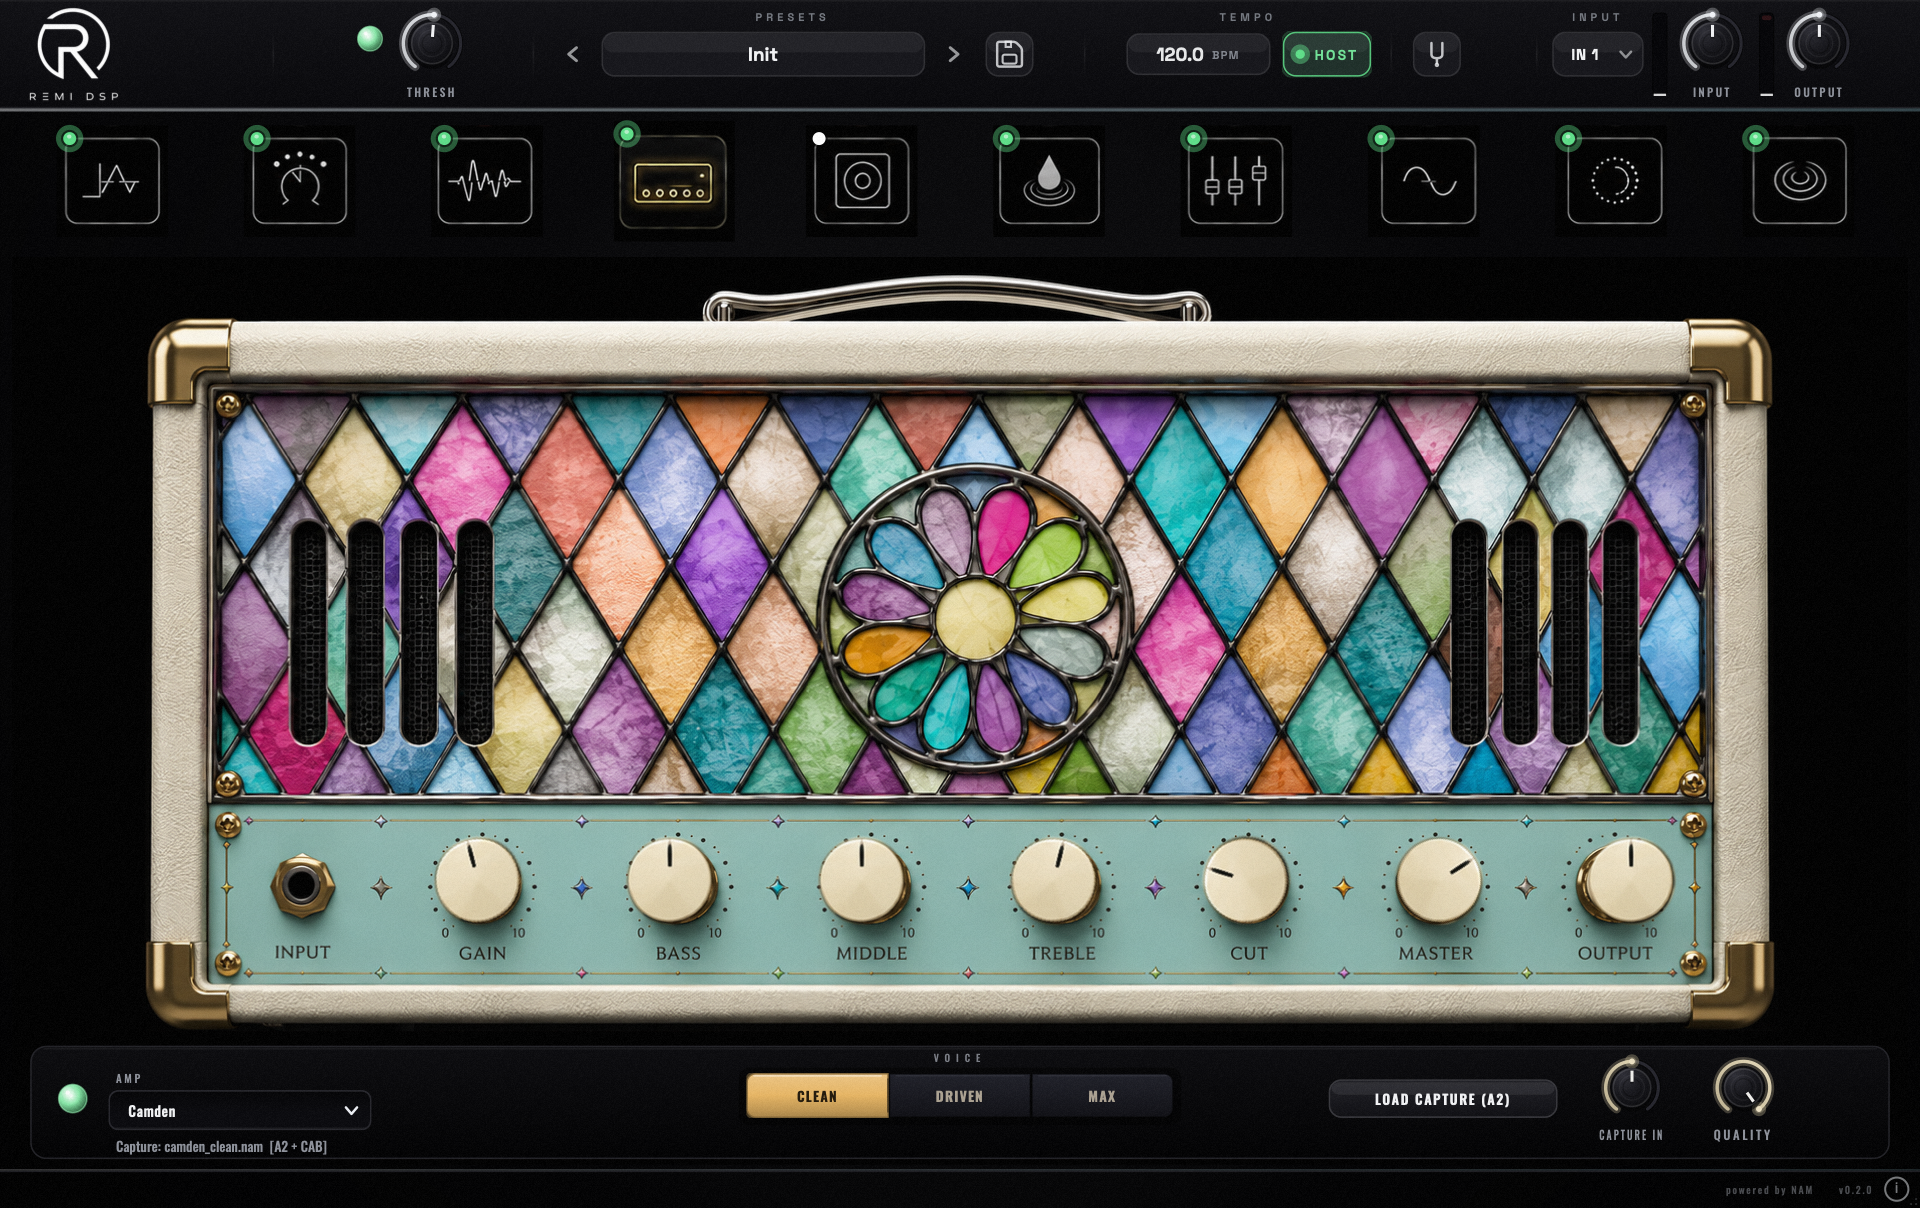
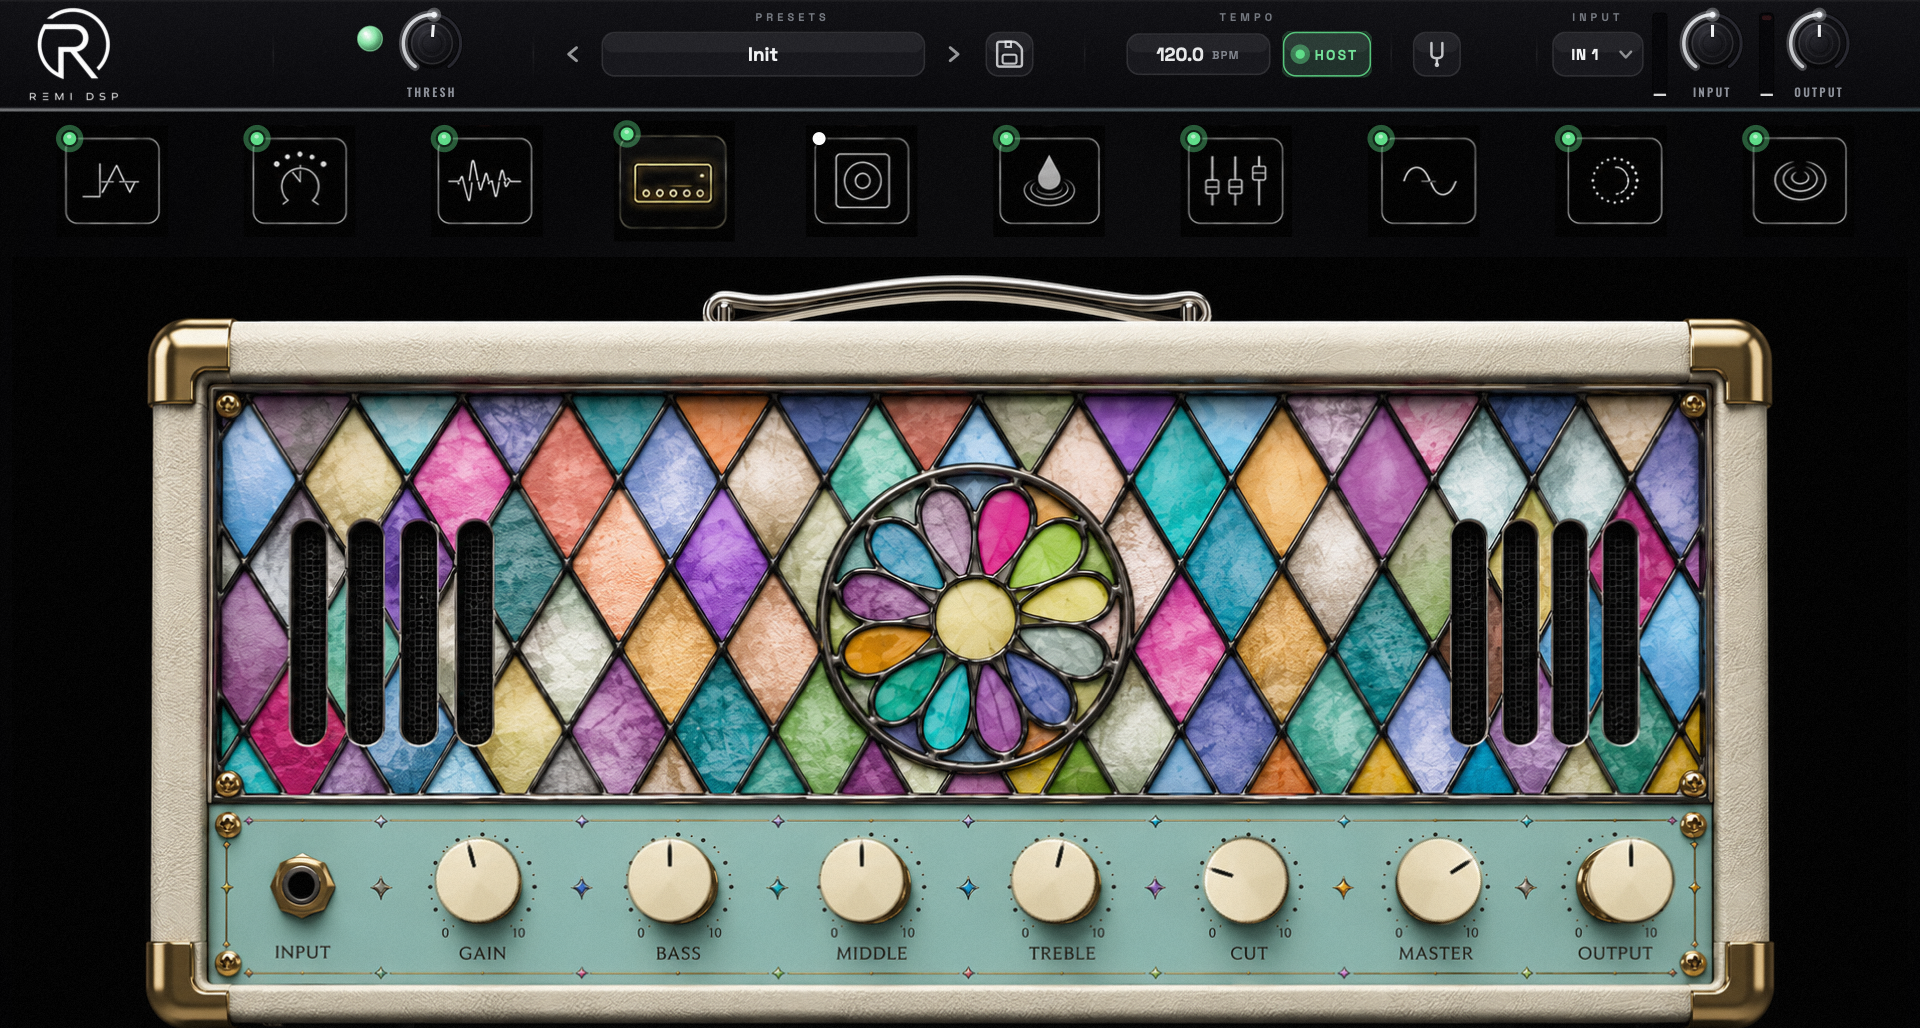
Home: reframe Maine card to full plugin; make copy honest (Maine-only)
- amp-hero: crop off the control drawer so the shot is header->amp floor, and
  match the card well to its 1920:1028 ratio — the logo (top) and amp floor
  (bottom) both show, nothing clipped.
- Only Maine is live right now, so stop marketing five plugins: hero title/lede,
  marquee (drop the vocal/mastering capabilities that aren't present), products
  header ("One rig. Every tone."), and footer download/formats.
- Drop the remaining Windows mentions (formats line, Maine chip, footer).

diff --git a/index.html b/index.html
@@ -38,9 +38,11 @@
 .prod__shot img{width:100%;height:100%;object-fit:cover;object-position:center top;
   transition:transform .8s var(--ease)}
 .prod:hover .prod__shot img{transform:scale(1.035)}
-/* Guitar shot is a 1.59:1 full-window grab. Frame the 2:1 crop so it runs from the
-   top of the plugin down to the amp's floor — the bottom control drawer stays out. */
-.prod__shot--foot img{object-position:center 24%}
+/* Guitar shot is pre-cropped to header→amp floor (the control drawer is trimmed
+   off the source). Match the well to its 1920:1028 ratio so the whole thing shows
+   — logo at the top, amp floor at the bottom, nothing clipped. */
+.prod__shot--foot{aspect-ratio:1920/1028}
+.prod__shot--foot img{object-position:center top}
 .prod__glare{position:absolute;inset:0;background:linear-gradient(115deg,rgba(255,255,255,.12),transparent 40%);
   pointer-events:none}
 .prod__body{position:relative;z-index:2;padding:clamp(1.6rem,3vw,2.2rem);display:flex;flex-direction:column;gap:.7rem;flex:1}
@@ -109,13 +111,13 @@ a[href$="doppel.html"],a[href$="quell.html"],a[href$="contour.html"],a[href$="tr
   <div class="hero__inner">
     <p class="hero__eyebrow" data-reveal>REMI&nbsp;DSP&nbsp;·&nbsp;PROFESSIONAL&nbsp;PLUGINS</p>
     <h1 class="hero__title" data-reveal-lines>
-      <span class="line"><span data-reveal-line style="--d:.05s">Pro plugins.</span></span>
+      <span class="line"><span data-reveal-line style="--d:.05s">Your entire rig.</span></span>
       <span class="line"><span data-reveal-line class="hero__free" style="--d:.16s">Early access.</span></span>
     </h1>
     <p class="hero__lede" data-reveal style="--d:.3s">
-      A neural guitar rig, a vocal double aligner, a dynamic resonance suppressor, a
-      note-based vocal editor and an honest mastering analyzer — five professional plugins
-      for Windows and macOS, free while in early access. No account required.
+      Maine — three amplifiers captured from the real things, a pedalboard that reorders
+      itself and a studio strip that finishes the job. All on neural A2 captures,
+      level-matched by construction. Free on macOS while in early access. No account required.
     </p>
     <div class="hero__cta" data-reveal style="--d:.42s">
       <a href="guitar.html" class="btn btn--amber btn--lg" data-magnetic><span>Maine</span></a>
@@ -123,7 +125,7 @@ a[href$="doppel.html"],a[href$="quell.html"],a[href$="contour.html"],a[href$="tr
       <a href="quell.html" class="btn btn--ghost btn--lg" data-magnetic><span>Quell</span></a>
       <a href="contour.html" class="btn btn--ghost btn--lg" data-magnetic><span>Contour</span></a>
       <a href="truthmeter.html" class="btn btn--ghost btn--lg" data-magnetic><span>TruthMeter</span></a>
-      <span class="hero__formats mono">WINDOWS&nbsp;·&nbsp;MACOS&nbsp;·&nbsp;VST3&nbsp;·&nbsp;AU</span>
+      <span class="hero__formats mono">MACOS&nbsp;·&nbsp;VST3&nbsp;·&nbsp;AU&nbsp;·&nbsp;STANDALONE</span>
     </div>
     <p class="hero__note mono" data-reveal style="--d:.52s">EARLY ACCESS · NO ACCOUNT REQUIRED</p>
   </div>
@@ -137,10 +139,10 @@ a[href$="doppel.html"],a[href$="quell.html"],a[href$="contour.html"],a[href$="tr
 <section class="marquee" aria-hidden="true">
   <div class="marquee__band">
     <div class="marquee__track">
-      <span>Neural Amps</span><i>✦</i><span>Pedalboard</span><i>✦</i><span>Studio Strip</span><i>✦</i><span>Vocal Alignment</span><i>✦</i><span>Phrase Detection</span><i>✦</i><span>Resonance Suppression</span><i>✦</i><span>Unmasking</span><i>✦</i><span>Vocal Editing</span><i>✦</i><span>Pitch Contours</span><i>✦</i><span>Loudness &amp; True Peak</span><i>✦</i><span>Windows &amp; macOS</span><i>✦</i>
+      <span>Neural Amps</span><i>✦</i><span>Pedalboard</span><i>✦</i><span>Studio Strip</span><i>✦</i><span>Neural A2 Captures</span><i>✦</i><span>Level-Matched</span><i>✦</i><span>20 Presets</span><i>✦</i><span>Strobe Tuner</span><i>✦</i><span>Sauce Finalizer</span><i>✦</i><span>macOS · VST3 &amp; AU</span><i>✦</i>
     </div>
     <div class="marquee__track" aria-hidden="true">
-      <span>Neural Amps</span><i>✦</i><span>Pedalboard</span><i>✦</i><span>Studio Strip</span><i>✦</i><span>Vocal Alignment</span><i>✦</i><span>Phrase Detection</span><i>✦</i><span>Resonance Suppression</span><i>✦</i><span>Unmasking</span><i>✦</i><span>Vocal Editing</span><i>✦</i><span>Pitch Contours</span><i>✦</i><span>Loudness &amp; True Peak</span><i>✦</i><span>Windows &amp; macOS</span><i>✦</i>
+      <span>Neural Amps</span><i>✦</i><span>Pedalboard</span><i>✦</i><span>Studio Strip</span><i>✦</i><span>Neural A2 Captures</span><i>✦</i><span>Level-Matched</span><i>✦</i><span>20 Presets</span><i>✦</i><span>Strobe Tuner</span><i>✦</i><span>Sauce Finalizer</span><i>✦</i><span>macOS · VST3 &amp; AU</span><i>✦</i>
     </div>
   </div>
 </section>
@@ -148,9 +150,9 @@ a[href$="doppel.html"],a[href$="quell.html"],a[href$="contour.html"],a[href$="tr
 <!-- ░░ PRODUCTS ░░ -->
 <section class="products" id="products">
   <div class="products__head">
-    <p class="kicker" data-reveal>THE PLUGINS</p>
-    <h2 data-reveal style="--d:.06s">Five tools. One studio.</h2>
-    <p data-reveal style="--d:.12s">Every one is the full version — every amp, every verdict, every band, every note. Pick one, or take all five.</p>
+    <p class="kicker" data-reveal>THE RIG</p>
+    <h2 data-reveal style="--d:.06s">One rig. Every tone.</h2>
+    <p data-reveal style="--d:.12s">The full version — every amp, every pedal, every band. One download, no account. More plugins are on the way.</p>
   </div>
 
   <div class="prods">
@@ -159,7 +161,7 @@ a[href$="doppel.html"],a[href$="quell.html"],a[href$="contour.html"],a[href$="tr
       <span class="prod__edge" style="background:var(--gold)"></span>
       <a class="prod__shot prod__shot--foot" href="guitar.html" aria-label="Explore Maine">
         <picture><source srcset="assets/img/amp-hero.webp" type="image/webp">
-          <img src="assets/img/amp-hero.png" width="1920" height="1208" loading="lazy"
+          <img src="assets/img/amp-hero.png" width="1920" height="1028" loading="lazy"
                alt="REMI DSP Maine — Camden amplifier panel"></picture>
         <span class="prod__glare"></span>
       </a>
@@ -169,7 +171,7 @@ a[href$="doppel.html"],a[href$="quell.html"],a[href$="contour.html"],a[href$="tr
         <p>Three amps captured from the real things, a pedalboard that reorders itself and a
            studio strip that finishes the job — all on neural A2 captures, level-matched by construction.</p>
         <div class="prod__meta">
-          <span class="chip mono">3 AMPS · 9 VOICES</span><span class="chip mono">PEDALBOARD</span><span class="chip mono">WIN · MAC</span>
+          <span class="chip mono">3 AMPS · 9 VOICES</span><span class="chip mono">PEDALBOARD</span><span class="chip mono">MACOS</span>
         </div>
         <div class="prod__cta">
           <a class="btn btn--amber" href="guitar.html" data-magnetic><span>Explore</span></a>
@@ -291,8 +293,8 @@ a[href$="doppel.html"],a[href$="quell.html"],a[href$="contour.html"],a[href$="tr
   </div>
   <div class="footer__cols">
     <div><h4>Plugins</h4><a href="guitar.html">Maine</a><a href="doppel.html">Doppel</a><a href="quell.html">Quell</a><a href="contour.html">Contour</a><a href="truthmeter.html">TruthMeter</a></div>
-    <div><h4>Download</h4><a href="https://github.com/frankAwesome/remi-amps-downloads/releases/latest/download/REMI-Amps-macOS.pkg">Guitar (macOS)</a><a href="https://github.com/frankAwesome/remidsp/releases/latest/download/Doppel-macOS.pkg">Doppel (macOS)</a><a href="https://github.com/frankAwesome/remidsp/releases/latest/download/Quell-macOS.pkg">Quell (macOS)</a><a href="https://github.com/frankAwesome/remidsp/releases/latest/download/Contour-macOS.pkg">Contour (macOS)</a><a href="https://github.com/frankAwesome/remidsp/releases/latest/download/TruthMeter-macOS.pkg">TruthMeter (macOS)</a></div>
-    <div><h4>Formats</h4><a href="#products">Windows</a><a href="#products">macOS</a><a href="#products">VST3 &amp; AU</a></div>
+    <div><h4>Download</h4><a href="https://github.com/frankAwesome/remi-amps-downloads/releases/latest/download/REMI-Amps-macOS.pkg">Maine (macOS)</a></div>
+    <div><h4>Formats</h4><a href="#products">macOS</a><a href="#products">VST3 &amp; AU</a><a href="#products">Standalone</a></div>
   </div>
   <p class="footer__legal">
     © <span id="year">2026</span> Francois de Klerk · REMI DSP. Built for players and producers.<br>